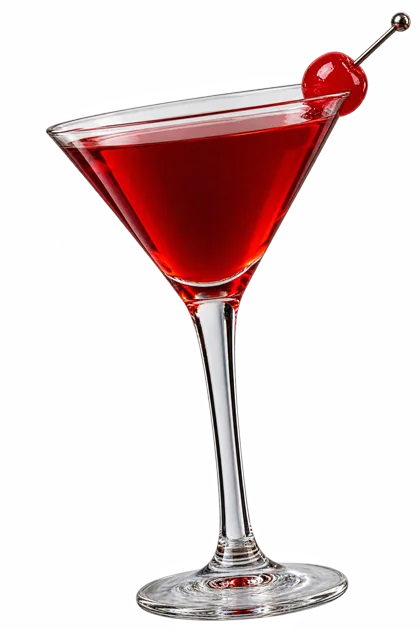
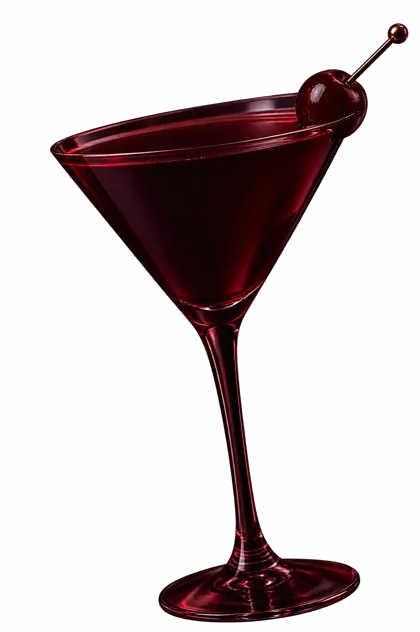
Trešnje i saten: only the bow on the envelope, moodier martinis
The envelope keeps just its satin bow. Both martinis are redrawn in the
same deep burgundy, low-light style as the bows and cherries. The card
inside the envelopes no longer peeks out under the bottom edge.

Changed region(s): [[0.0929, 0.0, 0.9905, 0.9921]]

diff --git a/src/main.js b/src/main.js
@@ -1966,7 +1966,7 @@ function pqOpener(t,d,cl){const C=(en,sr)=>cl==="sr"?sr:en;const op=t.op;
  if(op==="clock")in_=`<span class="c-rays"></span><span class="c-face"><span class="c-ticks"></span>${["XII","I","II","III","IIII","V","VI","VII","VIII","IX","X","XI"].map((r,i)=>`<b style="--a:${i*30}deg"><i>${r}</i></b>`).join("")}<span class="c-h"></span><span class="c-m"></span><span class="c-pin"></span></span>`;
  if(op==="clouds")in_=`<span class="k-rays"></span><span class="k-moon"></span><span class="k-cl l1">${pqCloud}</span><span class="k-cl l2">${pqCloud}</span><span class="k-cl r1">${pqCloud}</span><span class="k-cl r2">${pqCloud}</span><span class="k-cl c">${pqCloud}</span><span class="k-seal" style="--s:${seal}"></span>`;
  if(op==="napkin")in_=`<span class="n-card" aria-hidden="true">${renderCard(t,d,{fixed:true,lang:cl})}</span>${[["t","M5 3 50 47 95 3"],["l","M3 5 47 50 3 95"],["r","M97 5 53 50 97 95"],["b","M5 97 50 53 95 97"]].map(([s,p])=>`<span class="n-flap ${s}"><svg viewBox="0 0 100 100" preserveAspectRatio="none" aria-hidden="true"><path d="${p}"/></svg></span>`).join("")}<span class="n-seal" style="--s:${seal}"></span>${[0,1,2].map(i=>`<span class="n-fly f${i}"><span class="n-flee">${PK_FLY}</span></span>`).join("")}`;
- if(op==="kiss")in_=`<span class="k-back"></span><span class="k-card" aria-hidden="true">${renderCard(t,d,{fixed:true,lang:cl})}</span><span class="k-pocket"></span><span class="k-fsh"><i></i></span><span class="k-flap"><i class="k-out"></i><i class="k-lin"></i></span><span class="k-seal"></span>${t.id==="e_cherry"?`<span class="k-dec l"></span><span class="k-dec c"></span><span class="k-dec m"></span>`:`<span class="k-st r"></span><span class="k-st s"></span><span class="k-ball"></span>${(()=>{const a=String(parseInt(d.age)||"");return a?`<span class="k-age" style="--k:${a.length}">${[...a].map((x,i)=>`<i style="--d:var(--a-ksd${x});--i:${i}"></i>`).join("")}</span>`:""})()}`}${Array.from({length:10},(_,i)=>`<i class="k-sp" style="--a:${i*36}deg;--d:${(i%4)*60}ms"></i>`).join("")}`;
+ if(op==="kiss")in_=`<span class="k-back"></span><span class="k-card" aria-hidden="true">${renderCard(t,d,{fixed:true,lang:cl})}</span><span class="k-pocket"></span><span class="k-fsh"><i></i></span><span class="k-flap"><i class="k-out"></i><i class="k-lin"></i></span><span class="k-seal"></span>${t.id==="e_cherry"?"":`<span class="k-st r"></span><span class="k-st s"></span><span class="k-ball"></span>${(()=>{const a=String(parseInt(d.age)||"");return a?`<span class="k-age" style="--k:${a.length}">${[...a].map((x,i)=>`<i style="--d:var(--a-ksd${x});--i:${i}"></i>`).join("")}</span>`:""})()}`}${Array.from({length:10},(_,i)=>`<i class="k-sp" style="--a:${i*36}deg;--d:${(i%4)*60}ms"></i>`).join("")}`;
  if(op==="tinsel")in_=`<span class="t-beam a"></span><span class="t-beam b"></span><span class="t-cur l">${Array.from({length:22},(_,i)=>`<i style="--i:${i};--h:${(88+(i*7)%12)}%;--d:${((i*.37)%1.6).toFixed(2)}s"></i>`).join("")}</span><span class="t-cur r">${Array.from({length:22},(_,i)=>`<i style="--i:${i};--h:${(88+(i*5)%12)}%;--d:${((i*.53)%1.6).toFixed(2)}s"></i>`).join("")}</span><span class="t-ball">${discoBall()}</span><span class="t-seal" style="--s:${seal}"></span>`;
  return`<button class="pq-door pq-${op} v-${t.id}" type="button" aria-label="${lbl}">${in_}</button>`}
 const PQ_HINT={gates:["Touch the gate to open it","Dodirnite kapiju da je otvorite"],shutters:["Touch the shutters to open them","Dodirnite škure da ih otvorite"],box:["Touch the ribbon to open the box","Dodirnite mašnu da otvorite kutiju"],bloom:["Touch the flower to let it bloom","Dodirnite cvet da procveta"],clock:["Touch the clock to strike midnight","Dodirnite sat da otkuca ponoć"],clouds:["Touch the clouds to part them","Dodirnite oblake da se razmaknu"],napkin:["Touch the seal to unwrap the napkin","Dodirnite pečat da odmotate salvetu"],lace:["Touch the seal to break it","Dodirnite pečat da ga slomite"],tinsel:["Touch the curtain to open it","Dodirnite zavesu da je razmaknete"],kiss:["Touch the kiss to open the envelope","Dodirnite poljubac da otvorite kovertu"]};

diff --git a/src/styles/plus.css b/src/styles/plus.css
@@ -244,7 +244,7 @@
 .pq-kiss{--ar:.72;perspective:1400px;transition:translate 1s cubic-bezier(.4,0,.2,1) 1.05s;animation:pqIn 1.1s cubic-bezier(.2,.8,.25,1) both,ksFloat 5s ease-in-out 1.2s infinite alternate}
 .pq-kiss::before{content:"";position:absolute;inset:4% 2% -2%;border-radius:1.6cqw;box-shadow:0 36px 50px -20px rgba(0,0,0,.75);transition:opacity .5s ease 1.2s}
 .pq-kiss .k-back{inset:0;z-index:1;border-radius:1.6cqw;background:linear-gradient(180deg,rgba(0,0,0,.35),rgba(0,0,0,.05) 40%),var(--kl,var(--a-kssequin)) 0 0/34cqw repeat}
-.pq-kiss .k-card{left:5%;right:5%;top:3.5%;z-index:2;transition:transform 1.15s cubic-bezier(.25,.8,.25,1) 1.05s}
+.pq-kiss .k-card{left:6%;right:6%;top:3.5%;z-index:2;transition:transform 1.15s cubic-bezier(.25,.8,.25,1) 1.05s}
 .pq-kiss .k-card .inv-c{width:100%}
 .pq-kiss .k-card .inv{box-shadow:0 10px 24px -10px rgba(60,40,30,.5)}
 .pq-kiss .k-pocket{inset:0;z-index:3;border-radius:1.6cqw;clip-path:polygon(0 0,50% 57%,100% 0,100% 100%,0 100%);background:linear-gradient(150deg,transparent 49.4%,rgba(120,95,70,.22) 50%,transparent 51.5%),linear-gradient(210deg,transparent 49.4%,rgba(120,95,70,.22) 50%,transparent 51.5%),var(--kp,var(--a-kspaper)) 0 0/60cqw repeat,var(--kc,#F3ECDF);box-shadow:inset 0 -2cqw 4cqw rgba(120,95,70,.15)}
@@ -286,11 +286,6 @@
 .pq-kiss.v-e_cherry .k-fsh i{background:rgba(0,0,0,.75)}
 .pq-kiss.v-e_cherry .k-seal{width:44cqw;rotate:0deg;filter:drop-shadow(0 1cqw 1.2cqw rgba(0,0,0,.6))}
 .pq-kiss.v-e_cherry .k-sp{background:radial-gradient(circle,#ffd9d4 0 20%,rgba(190,30,30,.8) 40%,transparent 70%)}
-.pq-kiss .k-dec{z-index:6;background:center/contain no-repeat;animation:ksTw 4.4s ease-in-out infinite alternate}
-.pq-kiss .k-dec.l{left:-7%;top:-4%;width:28cqw;aspect-ratio:1;background-image:var(--a-chlips);rotate:-14deg}
-.pq-kiss .k-dec.c{right:-6%;bottom:-3%;width:26cqw;aspect-ratio:1;background-image:var(--a-chcher);rotate:8deg;animation-delay:-2s}
-.pq-kiss .k-dec.m{left:-8%;bottom:-6%;width:24cqw;aspect-ratio:2/3;background-image:var(--a-chmart);rotate:-8deg;animation-delay:-1s}
-.pq-kiss.open .k-dec{transition:opacity .6s ease .3s;opacity:0}
 
 /* ---------- the invitation page ---------- */
 .pq-main{position:relative;z-index:2}
@@ -441,7 +436,7 @@
 .tid-e_cherry .ch-cher{--x:var(--a-chcher);right:-1cqw;top:24cqw;width:23cqw;aspect-ratio:1}
 .tid-e_cherry .ch-mart{--x:var(--a-chmart);aspect-ratio:2/3}
 .tid-e_cherry .ch-mart.a{left:-6cqw;top:61cqw;width:31cqw;transform:rotate(-4deg)}
-.tid-e_cherry .ch-mart.b{right:-8cqw;bottom:-7cqw;width:32cqw;transform:scaleX(-1) rotate(-6deg)}
+.tid-e_cherry .ch-mart.b{--x:var(--a-chmart2);right:-6cqw;bottom:3cqw;width:29cqw;transform:rotate(7deg)}
 .tid-e_cherry .ch-k{position:relative;font:500 2.2cqw/1.4 'Cormorant Garamond',serif;letter-spacing:.42em!important;text-transform:uppercase;padding-left:.42em;color:#E3D2C8}
 .tid-e_cherry .ch-t{position:relative;display:flex;flex-direction:column;align-items:center;margin:1.6cqw 0 0!important}
 .tid-e_cherry .ch-t span{font:300 13cqw/1 'Cormorant Garamond',serif;letter-spacing:.01em;color:#EFE3DA}

diff --git a/src/styles/art.css b/src/styles/art.css
@@ -122,6 +122,7 @@
 --a-chlips:url(../art/chlips.webp);
 --a-chcher:url(../art/chcher.webp);
 --a-chmart:url(../art/chmart.webp);
+--a-chmart2:url(../art/chmart2.webp);
 --a-chpaper:url(../art/chpaper.webp);
 --a-chsatin:url(../art/chsatin.webp);
 --a-ksbg:url(../art/ksbg.webp);
